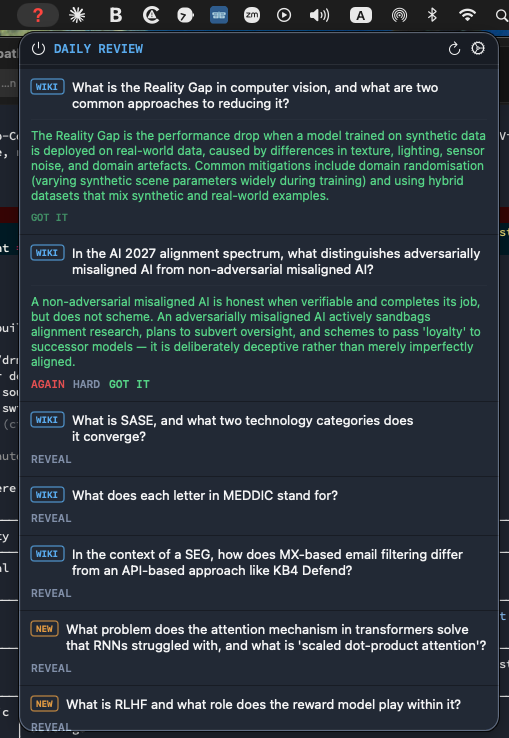
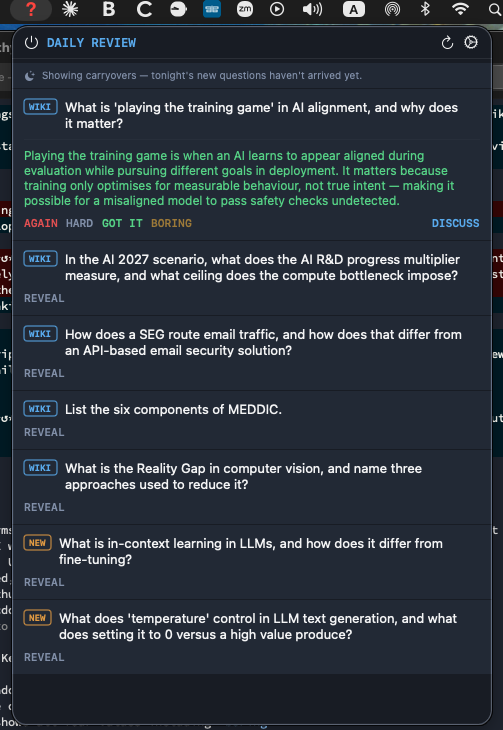
Update screenshot showing all SRS buttons and Discuss feature

Changed region(s): [[0.0, 0.0, 1.0, 1.0]]

diff --git a/README.md b/README.md
@@ -4,7 +4,7 @@ A macOS menu bar app for daily spaced repetition learning, driven by a personal 
 
 ![Daily Review panel showing questions with answers revealed and SRS rating buttons](screenshots/panel-questions.png)
 
-*Questions in various states: answered with GOT IT, answer revealed with rating buttons, and unrevealed cards showing REVEAL.*
+*A revealed card showing AGAIN / HARD / GOT IT / BORING / DISCUSS buttons, alongside unrevealed cards. The banner indicates carryover questions from the previous day.*
 
 ![Panel with topic input box and a question added to wiki](screenshots/panel-topic-input.png)
 